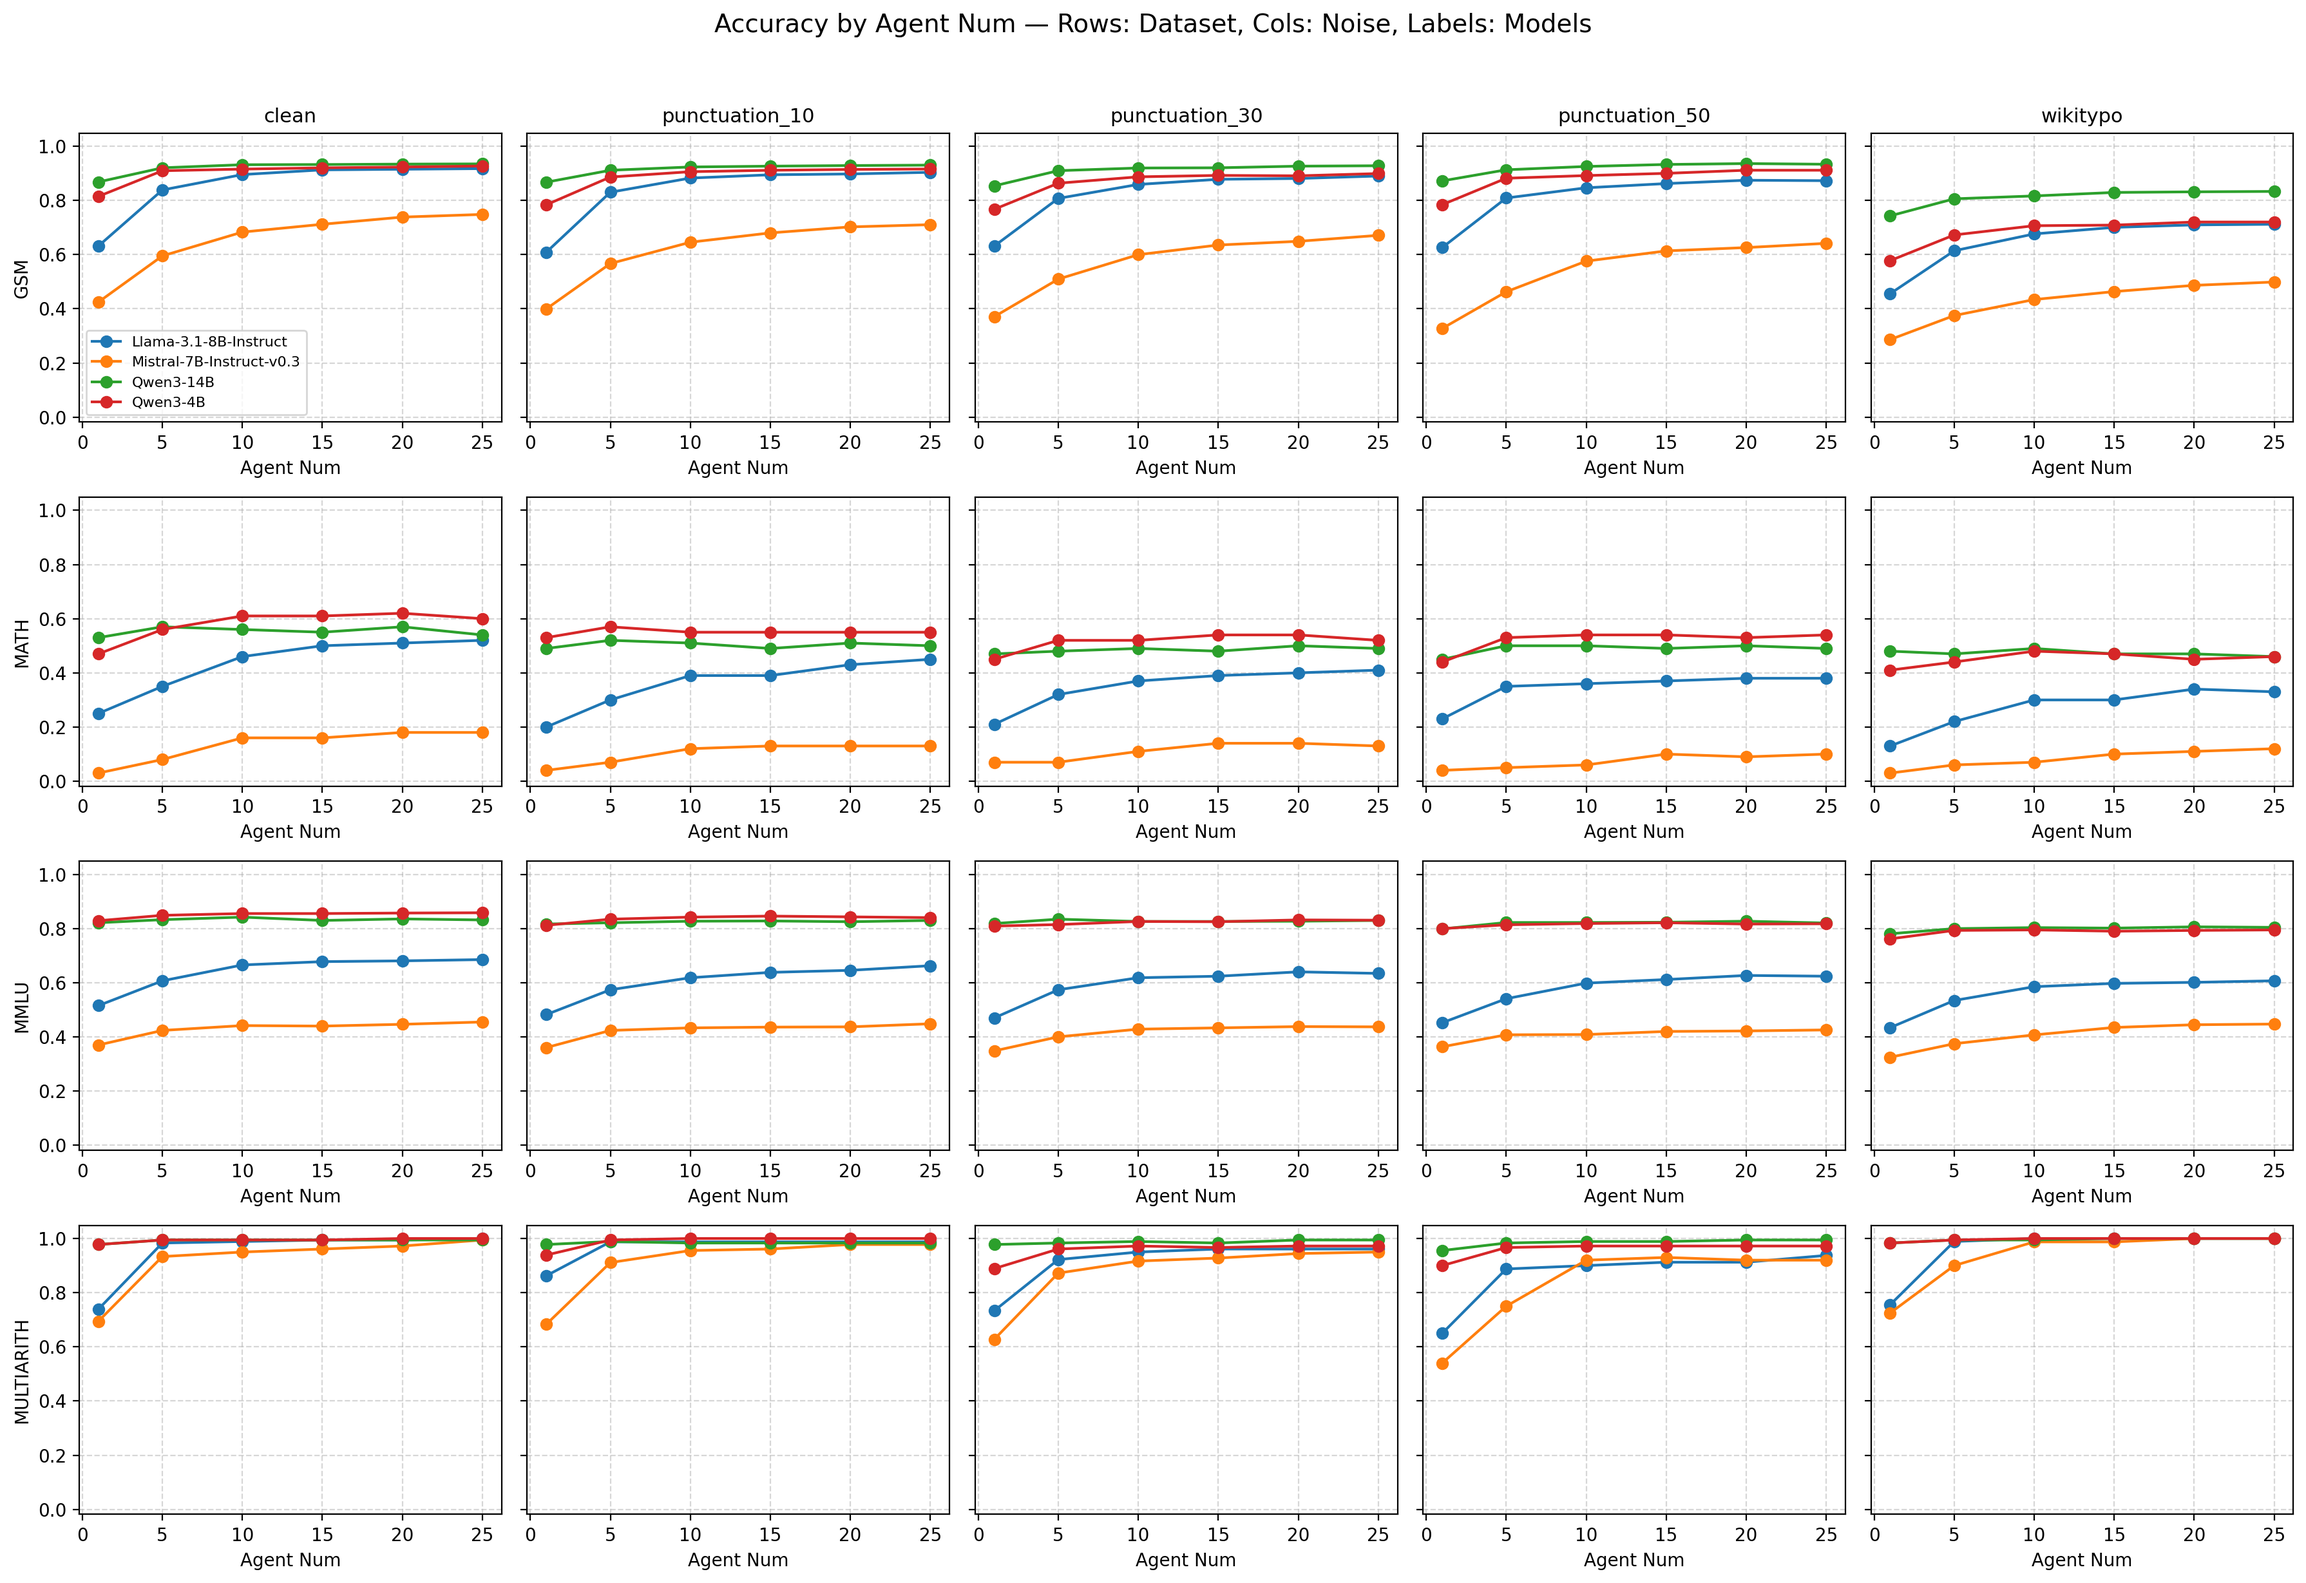
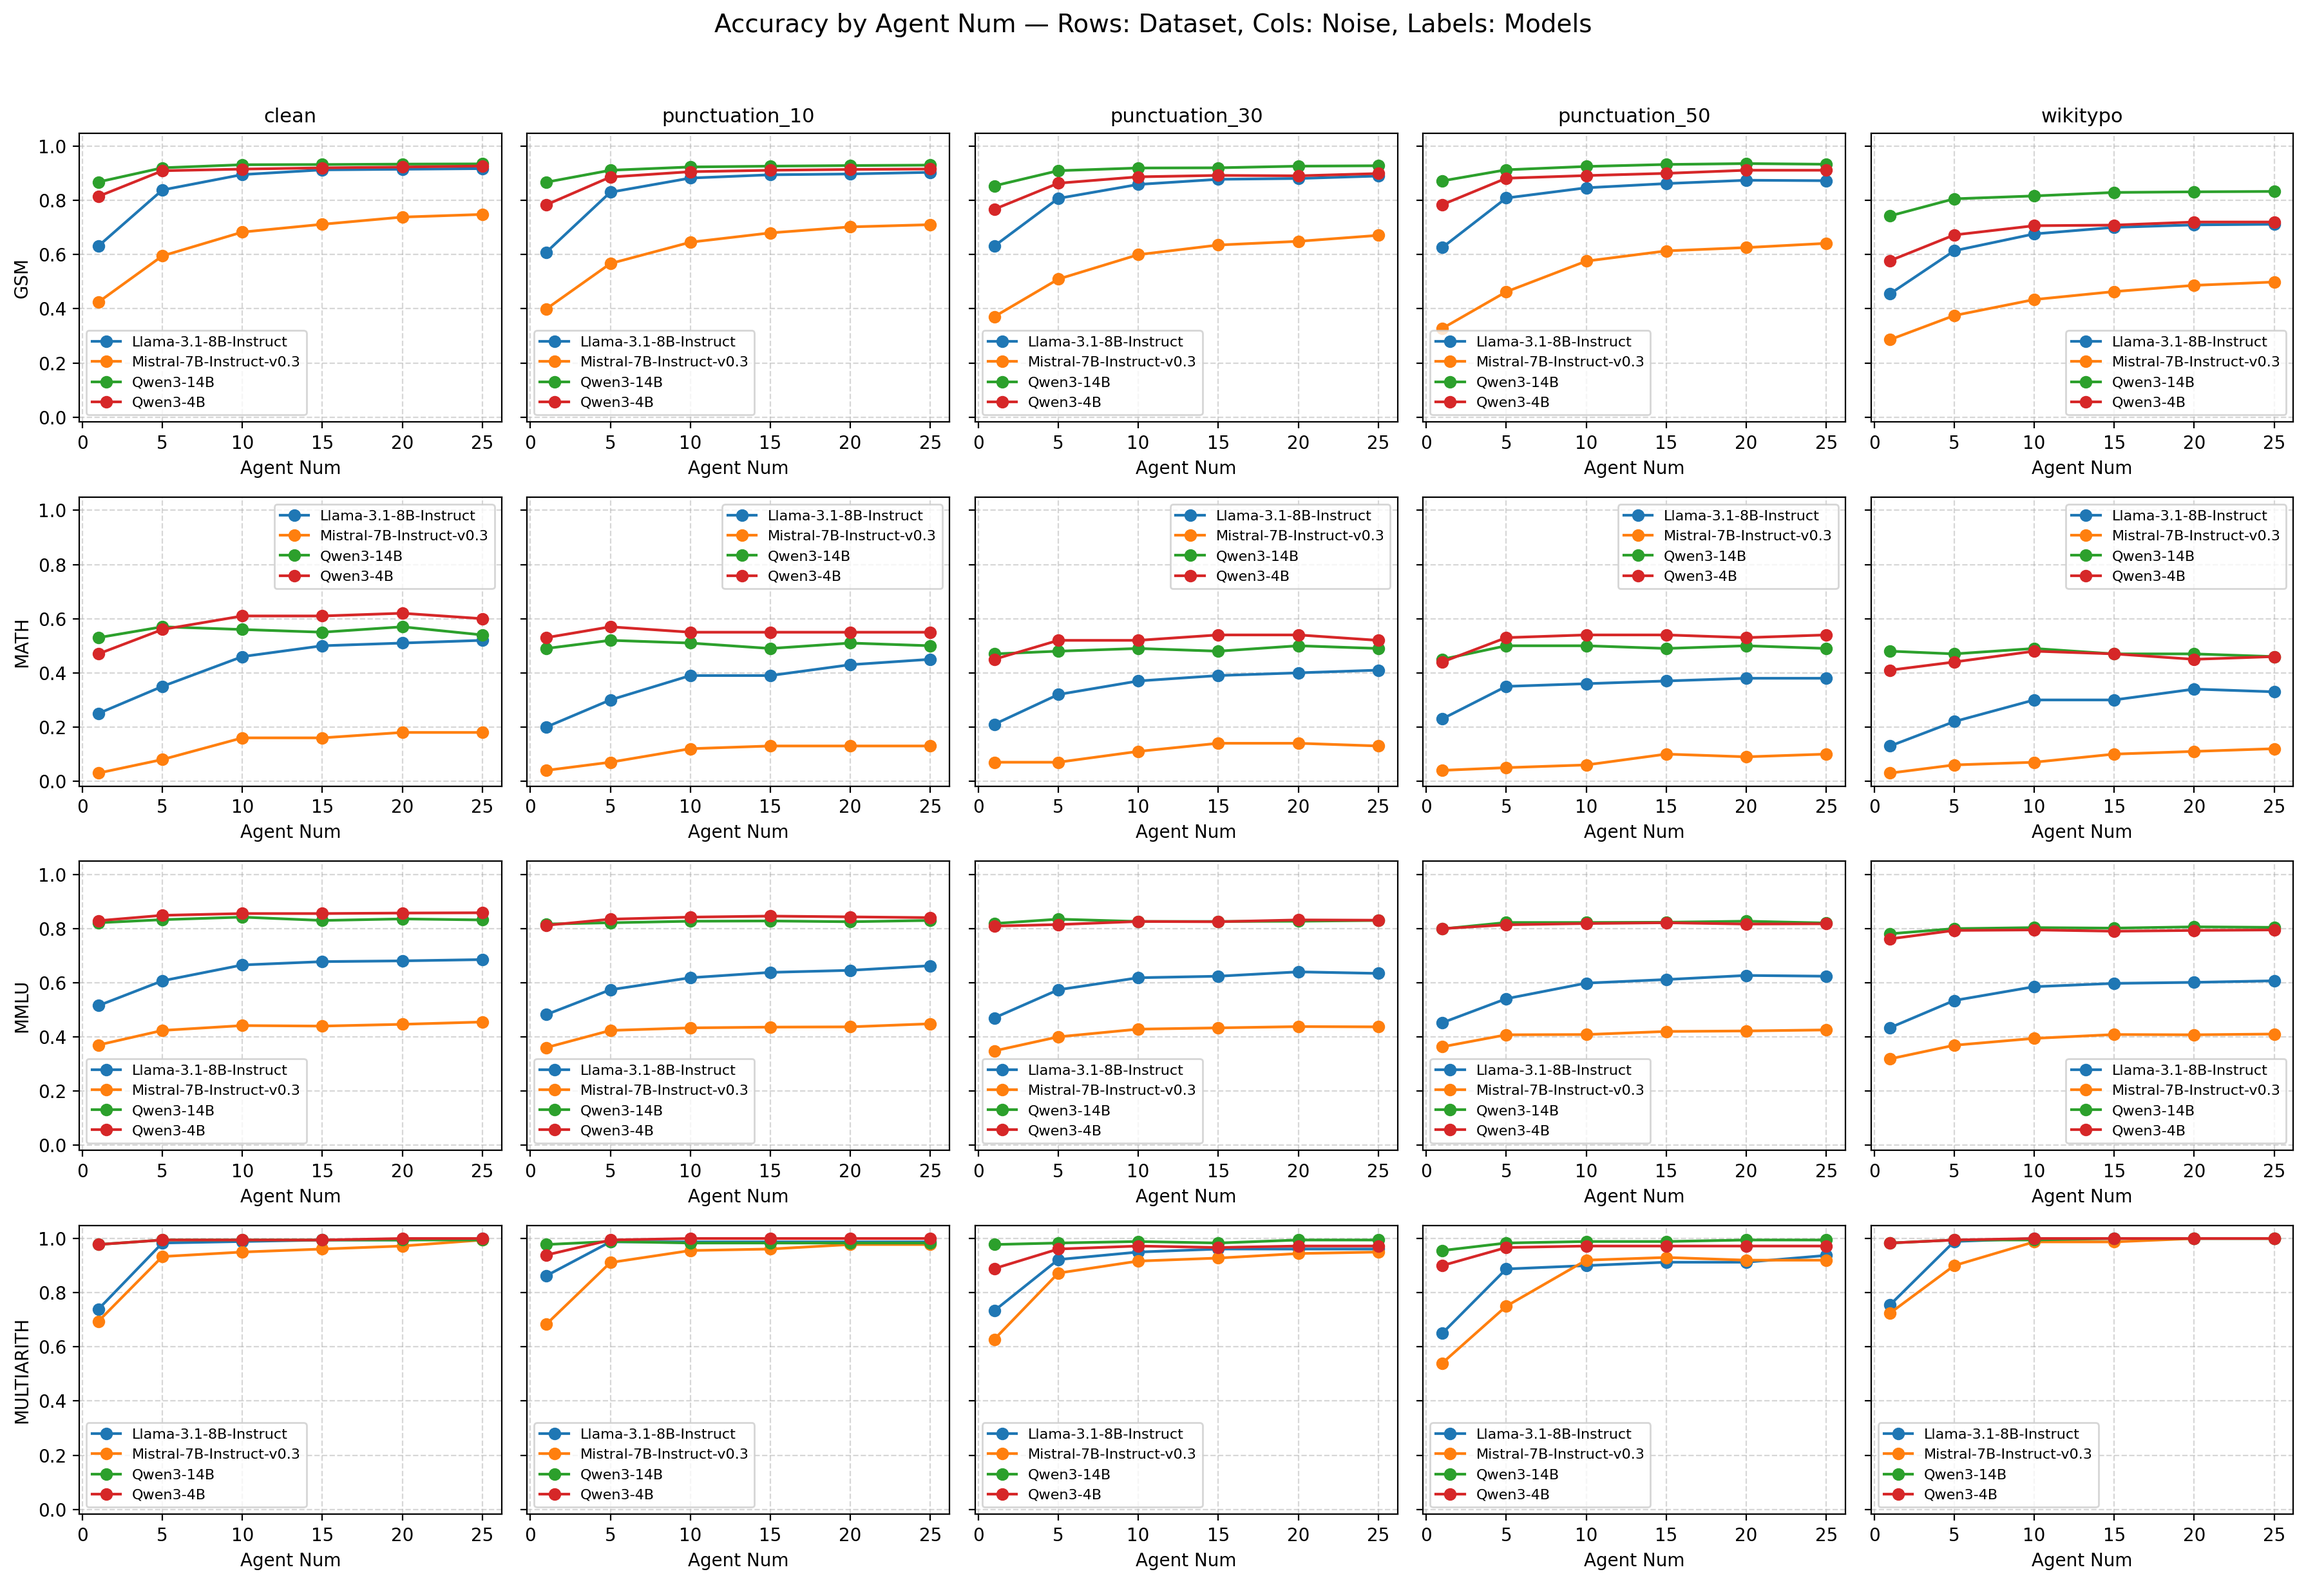
viz code update

diff --git a/notebooks/visualization.py b/notebooks/visualization.py
@@ -50,42 +50,12 @@ def plot_grid_models_by_noise(df: pd.DataFrame, save_path: Path = None):
                 ax.set_ylabel(dataset.upper())
             ax.set_xlabel("Agent Num")
             ax.grid(True, linestyle="--", alpha=0.5)
-
-            if i == 0 and j == 0:
-                ax.legend(fontsize=8)
+            ax.legend(fontsize=8)
 
     fig.suptitle("Accuracy by Agent Num — Rows: Dataset, Cols: Noise, Labels: Models", y=1.02, fontsize=14)
     plt.tight_layout()
     if save_path:
         fig.savefig(save_path, bbox_inches="tight", dpi=200)
-    plt.show()
-
-def plot_means_by_noise(df: pd.DataFrame, save_path: = None):
-    """
-    2x2 grid of dataset-level mean accuracy per noise (across models).
-    """
-    datasets = sorted(df["dataset"].unique())
-    fig, axes = plt.subplots(2, 2, figsize=(12, 8), sharey=True)
-
-    for ax, dataset in zip(axes.flatten(), datasets):
-        sub = df[df["dataset"] == dataset]
-        mean_df = (
-            sub.groupby(["noise", "agent_num"], as_index=False)["accuracy"]
-            .mean()
-            .sort_values(["noise", "agent_num"])
-        )
-        for noise, g in mean_df.groupby("noise"):
-            ax.plot(g["agent_num"], g["accuracy"], marker="o", label=noise)
-
-        ax.set_title(dataset.upper())
-        ax.set_xlabel("Agent Num")
-        ax.set_ylabel("Accuracy")
-        ax.grid(True, linestyle="--", alpha=0.6)
-        ax.legend(title="Noise", fontsize=8)
-
-    plt.tight_layout()
-    if save_path:
-        plt.savefig(save_path, bbox_inches="tight", dpi=200)
     plt.show()
 
 def main():
